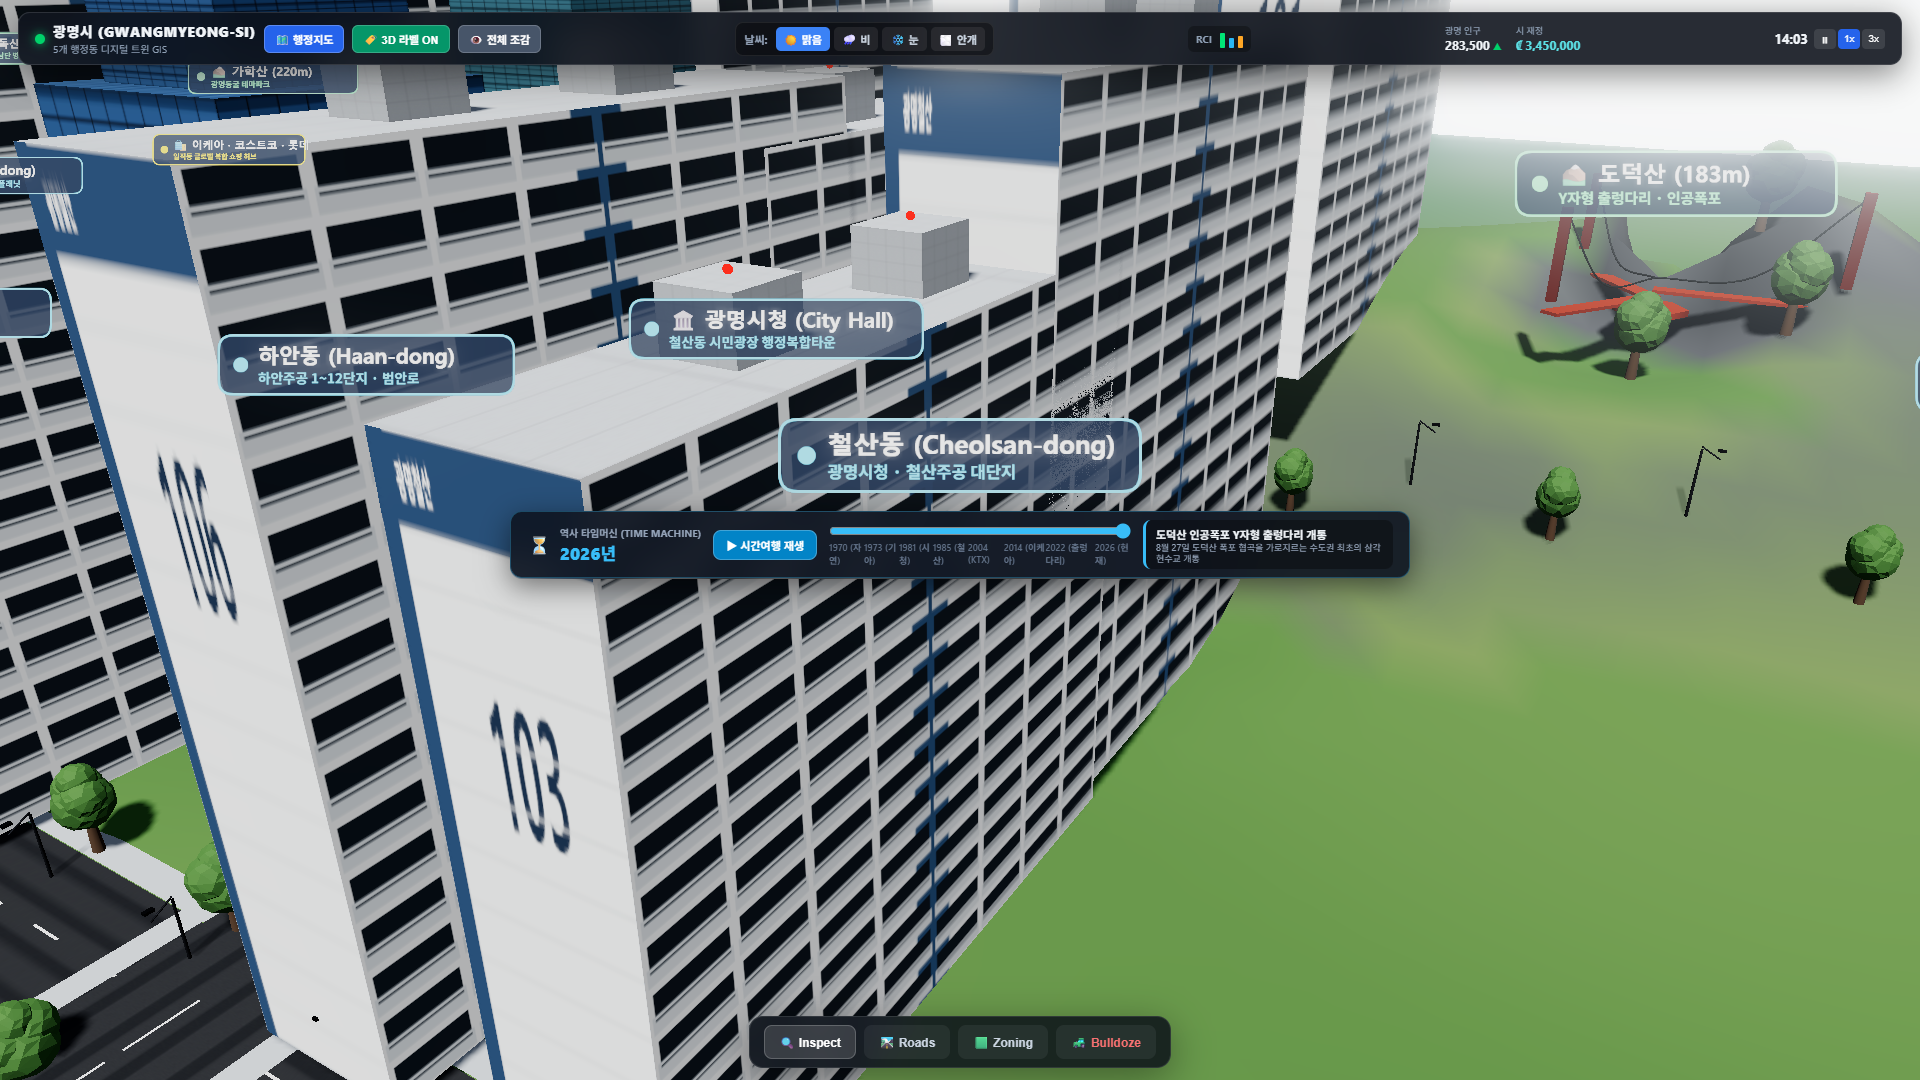
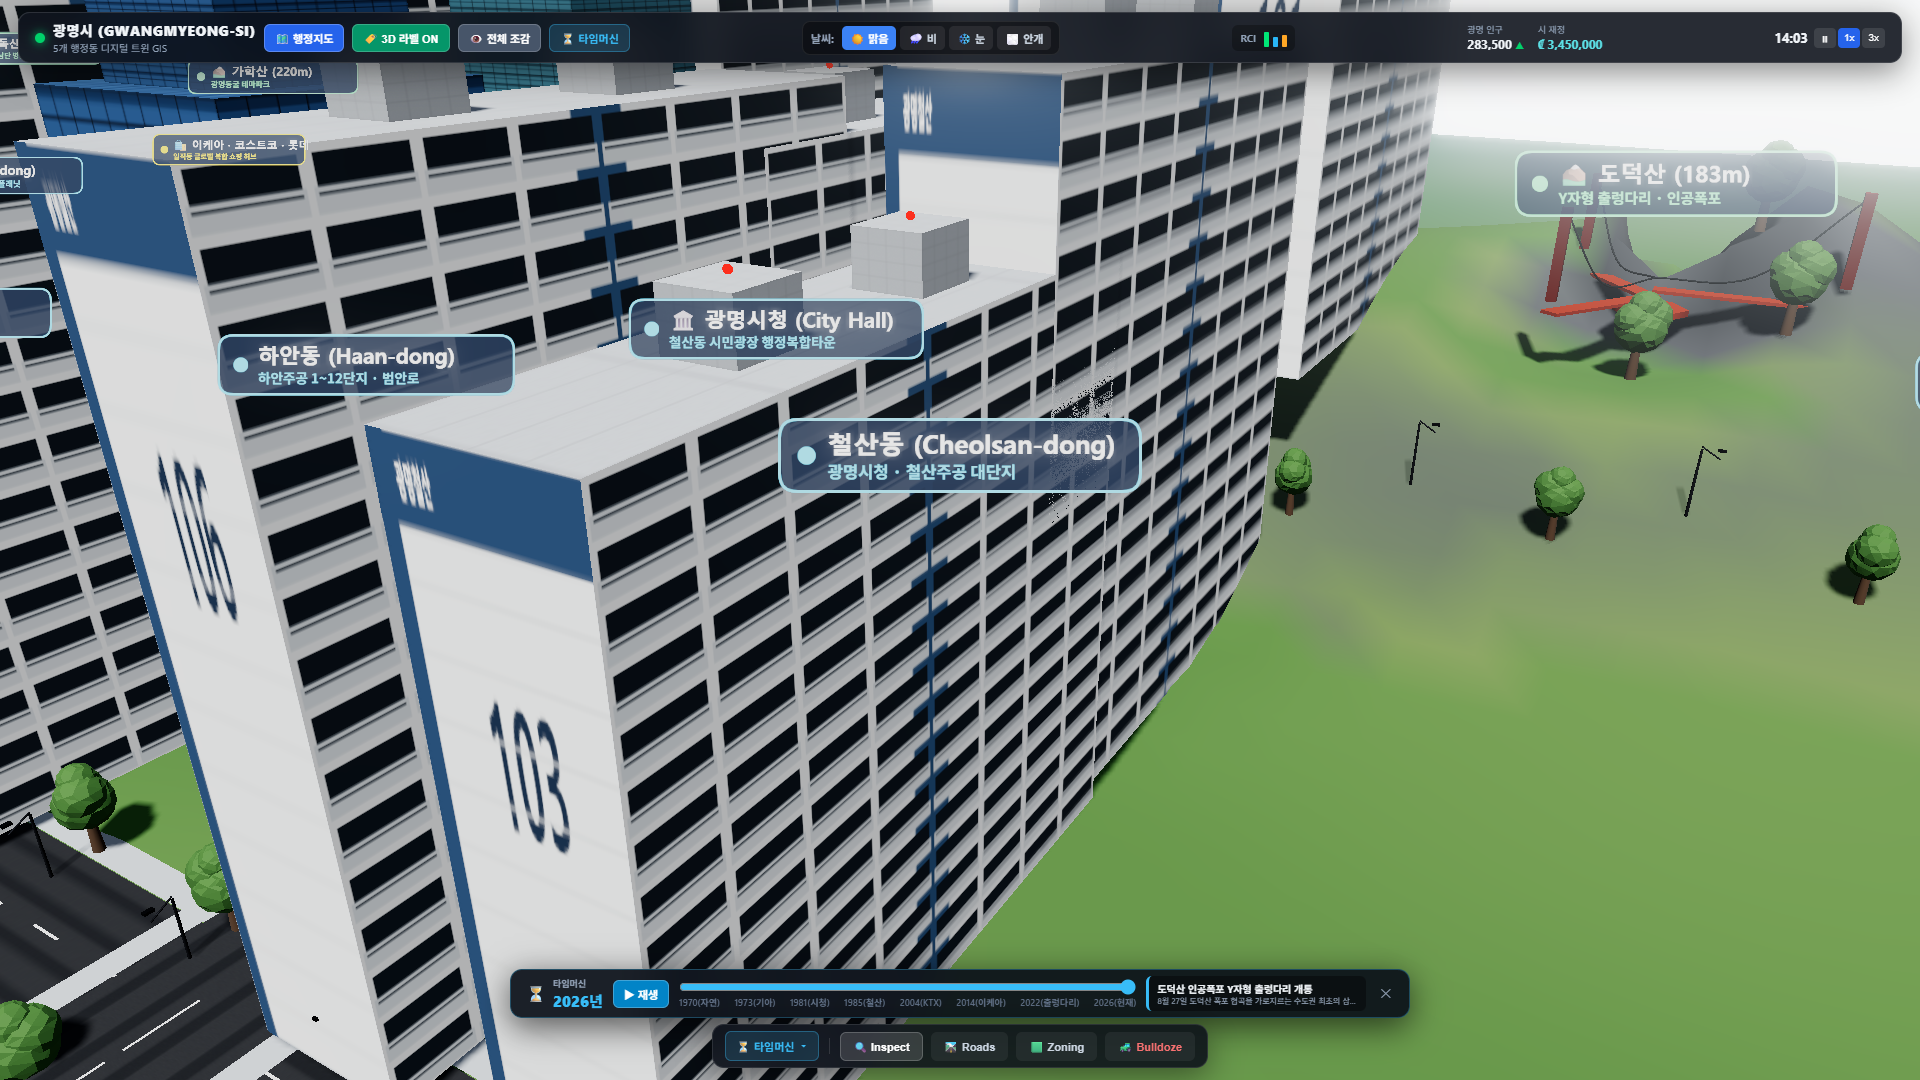
fix: relocate Time Machine control bar to bottom dock and add collapse toggle

diff --git a/src/modules/ui/index.js b/src/modules/ui/index.js
@@ -15,6 +15,7 @@ export class UIModule {
     this.unsubTM = null;
     this.isMapOpen = false;
     this.labelsVisible = true;
+    this.isTimeMachineOpen = true;
     this.currentYear = 2026;
     this.currentWeather = 'clear';
     this.isTimeLapsePlaying = false;
@@ -51,7 +52,7 @@ export class UIModule {
         padding: 12px 18px;
         box-sizing: border-box;
       ">
-        <!-- Top Status Header Bar -->
+        <!-- Top Status Header Bar (Pinned to top) -->
         <div style="
           display: flex;
           align-items: center;
@@ -61,7 +62,7 @@ export class UIModule {
           -webkit-backdrop-filter: blur(18px);
           border: 1px solid rgba(255, 255, 255, 0.12);
           border-radius: 12px;
-          padding: 8px 16px;
+          padding: 7px 16px;
           color: #f0f4f8;
           pointer-events: auto;
           box-shadow: 0 8px 32px rgba(0, 0, 0, 0.45);
@@ -126,6 +127,21 @@ export class UIModule {
             ">
               👁 전체 조감
             </button>
+            <button id="btn-top-toggle-tm" style="
+              background: rgba(56, 189, 248, 0.18);
+              border: 1px solid rgba(56, 189, 248, 0.35);
+              color: #38bdf8;
+              padding: 5px 10px;
+              border-radius: 6px;
+              font-size: 11px;
+              font-weight: 700;
+              cursor: pointer;
+              display: flex;
+              align-items: center;
+              gap: 4px;
+            ">
+              ⏳ 타임머신
+            </button>
           </div>
 
           <!-- Weather Selector Pills -->
@@ -174,86 +190,6 @@ export class UIModule {
               <button id="btn-speed-pause" style="background: rgba(255,255,255,0.1); border: none; color: #fff; padding: 3px 6px; border-radius: 4px; cursor: pointer; font-size: 10px;">⏸</button>
               <button id="btn-speed-1x" style="background: #2563eb; border: none; color: #fff; padding: 3px 6px; border-radius: 4px; cursor: pointer; font-size: 10px;">1x</button>
               <button id="btn-speed-3x" style="background: rgba(255,255,255,0.1); border: none; color: #fff; padding: 3px 6px; border-radius: 4px; cursor: pointer; font-size: 10px;">3x</button>
-            </div>
-          </div>
-        </div>
-
-        <!-- Floating Historical Time Machine Bar -->
-        <div style="
-          margin-top: 8px;
-          display: flex;
-          justify-content: center;
-          pointer-events: auto;
-        ">
-          <div style="
-            display: flex;
-            align-items: center;
-            gap: 12px;
-            background: rgba(13, 20, 32, 0.90);
-            backdrop-filter: blur(18px);
-            -webkit-backdrop-filter: blur(18px);
-            border: 1px solid rgba(56, 189, 248, 0.3);
-            border-radius: 12px;
-            padding: 8px 16px;
-            box-shadow: 0 8px 28px rgba(0, 0, 0, 0.5);
-            max-width: 900px;
-            width: 100%;
-          ">
-            <div style="display: flex; align-items: center; gap: 8px;">
-              <span style="font-size: 18px;">⏳</span>
-              <div>
-                <div style="font-size: 10px; color: #94a3b8; font-weight: 700;">역사 타임머신 (TIME MACHINE)</div>
-                <div id="tm-year-display" style="font-size: 17px; font-weight: 800; color: #38bdf8; font-variant-numeric: tabular-nums;">2026년</div>
-              </div>
-            </div>
-
-            <!-- Time-lapse Play/Pause Button -->
-            <button id="btn-tm-play" style="
-              background: #0284c7;
-              border: 1px solid rgba(255,255,255,0.25);
-              color: #ffffff;
-              padding: 6px 12px;
-              border-radius: 8px;
-              font-size: 11px;
-              font-weight: 700;
-              cursor: pointer;
-              white-space: nowrap;
-              display: flex;
-              align-items: center;
-              gap: 4px;
-            ">
-              ▶ 시간여행 재생
-            </button>
-
-            <!-- Year Slider -->
-            <div style="flex: 1; display: flex; flex-direction: column; gap: 2px;">
-              <input id="tm-year-slider" type="range" min="1970" max="2026" value="2026" step="1" style="
-                width: 100%;
-                cursor: pointer;
-                accent-color: #38bdf8;
-              "/>
-              <div style="display: flex; justify-content: space-between; font-size: 9px; color: #64748b; font-weight: 600;">
-                <span>1970 (자연)</span>
-                <span>1973 (기아)</span>
-                <span>1981 (시청)</span>
-                <span>1985 (철산)</span>
-                <span>2004 (KTX)</span>
-                <span>2014 (이케아)</span>
-                <span>2022 (출렁다리)</span>
-                <span>2026 (현재)</span>
-              </div>
-            </div>
-
-            <!-- Historical Milestone Card -->
-            <div style="
-              max-width: 250px;
-              background: rgba(0,0,0,0.35);
-              padding: 6px 10px;
-              border-radius: 8px;
-              border-left: 3px solid #38bdf8;
-            ">
-              <div id="tm-milestone-title" style="font-size: 11px; font-weight: 700; color: #f1f5f9; white-space: nowrap; overflow: hidden; text-overflow: ellipsis;">광명시 완성</div>
-              <div id="tm-milestone-desc" style="font-size: 9px; color: #94a3b8; line-height: 1.2;">도덕산 출렁다리 완공으로 14개 주요 인프라 완성</div>
             </div>
           </div>
         </div>
@@ -426,35 +362,142 @@ export class UIModule {
           </div>
         </div>
 
-        <!-- Bottom Construction & Management Dock -->
-        <div style="
+        <!-- Bottom Master Controls Dock (Centered at bottom, leaves entire screen wide open) -->
+        <div id="skylines-bottom-dock" style="
           display: flex;
-          justify-content: center;
-          gap: 10px;
+          flex-direction: column;
+          align-items: center;
+          gap: 6px;
           pointer-events: auto;
+          width: 100%;
+          max-width: 900px;
+          margin: 0 auto;
         ">
+          <!-- Sleek Bottom Historical Time Machine Bar -->
+          <div id="tm-dock-bar" style="
+            display: flex;
+            align-items: center;
+            gap: 10px;
+            background: rgba(11, 16, 25, 0.92);
+            backdrop-filter: blur(18px);
+            -webkit-backdrop-filter: blur(18px);
+            border: 1px solid rgba(56, 189, 248, 0.3);
+            border-radius: 12px;
+            padding: 6px 14px;
+            box-shadow: 0 8px 32px rgba(0, 0, 0, 0.6);
+            width: 100%;
+            box-sizing: border-box;
+            transition: all 0.25s ease;
+          ">
+            <div style="display: flex; align-items: center; gap: 6px;">
+              <span style="font-size: 16px;">⏳</span>
+              <div>
+                <div style="font-size: 9px; color: #94a3b8; font-weight: 700;">타임머신</div>
+                <div id="tm-year-display" style="font-size: 15px; font-weight: 800; color: #38bdf8; font-variant-numeric: tabular-nums;">2026년</div>
+              </div>
+            </div>
+
+            <!-- Time-lapse Play/Pause Button -->
+            <button id="btn-tm-play" style="
+              background: #0284c7;
+              border: 1px solid rgba(255,255,255,0.25);
+              color: #ffffff;
+              padding: 5px 10px;
+              border-radius: 6px;
+              font-size: 11px;
+              font-weight: 700;
+              cursor: pointer;
+              white-space: nowrap;
+              display: flex;
+              align-items: center;
+              gap: 4px;
+            ">
+              ▶ 재생
+            </button>
+
+            <!-- Year Slider -->
+            <div style="flex: 1; display: flex; flex-direction: column; gap: 1px;">
+              <input id="tm-year-slider" type="range" min="1970" max="2026" value="2026" step="1" style="
+                width: 100%;
+                cursor: pointer;
+                accent-color: #38bdf8;
+                margin: 0;
+              "/>
+              <div style="display: flex; justify-content: space-between; font-size: 9px; color: #64748b; font-weight: 600;">
+                <span>1970(자연)</span>
+                <span>1973(기아)</span>
+                <span>1981(시청)</span>
+                <span>1985(철산)</span>
+                <span>2004(KTX)</span>
+                <span>2014(이케아)</span>
+                <span>2022(출렁다리)</span>
+                <span>2026(현재)</span>
+              </div>
+            </div>
+
+            <!-- Historical Milestone Card -->
+            <div style="
+              max-width: 220px;
+              background: rgba(0,0,0,0.4);
+              padding: 5px 8px;
+              border-radius: 6px;
+              border-left: 3px solid #38bdf8;
+            ">
+              <div id="tm-milestone-title" style="font-size: 10px; font-weight: 700; color: #f1f5f9; white-space: nowrap; overflow: hidden; text-overflow: ellipsis;">광명시 완성</div>
+              <div id="tm-milestone-desc" style="font-size: 8px; color: #94a3b8; line-height: 1.2; white-space: nowrap; overflow: hidden; text-overflow: ellipsis;">도덕산 출렁다리 완공으로 인프라 완성</div>
+            </div>
+
+            <!-- Close / Minimize Button -->
+            <button id="btn-tm-close" style="
+              background: transparent;
+              border: none;
+              color: #94a3b8;
+              font-size: 13px;
+              cursor: pointer;
+              padding: 2px 4px;
+              line-height: 1;
+            " title="타임머신 바 숨기기">✕</button>
+          </div>
+
+          <!-- Bottom Construction & Management Dock -->
           <div style="
             display: flex;
             align-items: center;
             gap: 8px;
-            background: rgba(11, 16, 25, 0.85);
+            background: rgba(11, 16, 25, 0.88);
             backdrop-filter: blur(16px);
             -webkit-backdrop-filter: blur(16px);
             border: 1px solid rgba(255, 255, 255, 0.1);
-            border-radius: 14px;
-            padding: 8px 14px;
-            box-shadow: 0 10px 40px rgba(0,0,0,0.4);
+            border-radius: 12px;
+            padding: 6px 12px;
+            box-shadow: 0 8px 32px rgba(0,0,0,0.45);
           ">
-            <button class="skylines-tool-btn active" data-tool="inspect" style="background: rgba(255,255,255,0.14); border: 1px solid rgba(255,255,255,0.2); color: #fff; padding: 8px 14px; border-radius: 8px; font-size: 12px; font-weight: 600; cursor: pointer; display: flex; align-items: center; gap: 6px;">
+            <button id="btn-tm-toggle-pill" style="
+              background: rgba(56, 189, 248, 0.15);
+              border: 1px solid rgba(56, 189, 248, 0.35);
+              color: #38bdf8;
+              padding: 6px 10px;
+              border-radius: 6px;
+              font-size: 11px;
+              font-weight: 700;
+              cursor: pointer;
+              display: flex;
+              align-items: center;
+              gap: 4px;
+            ">
+              ⏳ 타임머신 <span id="tm-toggle-arrow">▾</span>
+            </button>
+            <div style="width: 1px; height: 16px; background: rgba(255,255,255,0.12); margin: 0 2px;"></div>
+            <button class="skylines-tool-btn active" data-tool="inspect" style="background: rgba(255,255,255,0.14); border: 1px solid rgba(255,255,255,0.2); color: #fff; padding: 6px 12px; border-radius: 6px; font-size: 11px; font-weight: 600; cursor: pointer; display: flex; align-items: center; gap: 5px;">
               🔍 Inspect
             </button>
-            <button class="skylines-tool-btn" data-tool="roads" style="background: rgba(255,255,255,0.06); border: 1px solid transparent; color: #cbd5e1; padding: 8px 14px; border-radius: 8px; font-size: 12px; font-weight: 600; cursor: pointer; display: flex; align-items: center; gap: 6px;">
+            <button class="skylines-tool-btn" data-tool="roads" style="background: rgba(255,255,255,0.06); border: 1px solid transparent; color: #cbd5e1; padding: 6px 12px; border-radius: 6px; font-size: 11px; font-weight: 600; cursor: pointer; display: flex; align-items: center; gap: 5px;">
               🛣 Roads
             </button>
-            <button class="skylines-tool-btn" data-tool="zoning" style="background: rgba(255,255,255,0.06); border: 1px solid transparent; color: #cbd5e1; padding: 8px 14px; border-radius: 8px; font-size: 12px; font-weight: 600; cursor: pointer; display: flex; align-items: center; gap: 6px;">
+            <button class="skylines-tool-btn" data-tool="zoning" style="background: rgba(255,255,255,0.06); border: 1px solid transparent; color: #cbd5e1; padding: 6px 12px; border-radius: 6px; font-size: 11px; font-weight: 600; cursor: pointer; display: flex; align-items: center; gap: 5px;">
               🟩 Zoning
             </button>
-            <button class="skylines-tool-btn" data-tool="bulldoze" style="background: rgba(255,255,255,0.06); border: 1px solid transparent; color: #f87171; padding: 8px 14px; border-radius: 8px; font-size: 12px; font-weight: 600; cursor: pointer; display: flex; align-items: center; gap: 6px;">
+            <button class="skylines-tool-btn" data-tool="bulldoze" style="background: rgba(255,255,255,0.06); border: 1px solid transparent; color: #f87171; padding: 6px 12px; border-radius: 6px; font-size: 11px; font-weight: 600; cursor: pointer; display: flex; align-items: center; gap: 5px;">
               🚜 Bulldoze
             </button>
           </div>
@@ -474,6 +517,30 @@ export class UIModule {
     const btnToggleLabels = document.getElementById('btn-toggle-labels');
     const btnGISOverview = document.getElementById('btn-gis-overview');
     const mapModal = document.getElementById('gwangmyeong-map-modal');
+
+    // Time Machine Dock Elements
+    const tmDockBar = document.getElementById('tm-dock-bar');
+    const btnTmTogglePill = document.getElementById('btn-tm-toggle-pill');
+    const btnTopToggleTm = document.getElementById('btn-top-toggle-tm');
+    const btnTmClose = document.getElementById('btn-tm-close');
+    const tmToggleArrow = document.getElementById('tm-toggle-arrow');
+
+    const toggleTimeMachineBar = () => {
+      this.isTimeMachineOpen = !this.isTimeMachineOpen;
+      if (tmDockBar) {
+        tmDockBar.style.display = this.isTimeMachineOpen ? 'flex' : 'none';
+      }
+      if (tmToggleArrow) {
+        tmToggleArrow.textContent = this.isTimeMachineOpen ? '▾' : '▴';
+      }
+      if (btnTopToggleTm) {
+        btnTopToggleTm.style.background = this.isTimeMachineOpen ? 'rgba(56, 189, 248, 0.25)' : 'rgba(255,255,255,0.08)';
+      }
+    };
+
+    if (btnTmTogglePill) btnTmTogglePill.onclick = toggleTimeMachineBar;
+    if (btnTopToggleTm) btnTopToggleTm.onclick = toggleTimeMachineBar;
+    if (btnTmClose) btnTmClose.onclick = toggleTimeMachineBar;
 
     // 3D GIS Labels Toggle
     if (btnToggleLabels) {
@@ -530,7 +597,7 @@ export class UIModule {
       btnPlayTM.onclick = () => {
         this.isTimeLapsePlaying = !this.isTimeLapsePlaying;
         if (this.isTimeLapsePlaying) {
-          btnPlayTM.textContent = '⏸ 시간여행 일시정지';
+          btnPlayTM.textContent = '⏸ 정지';
           btnPlayTM.style.background = '#e11d48';
 
           if (this.currentYear >= 2026) {
@@ -541,7 +608,7 @@ export class UIModule {
           this.timeLapseInterval = setInterval(() => {
             if (this.currentYear >= 2026) {
               this.isTimeLapsePlaying = false;
-              btnPlayTM.textContent = '▶ 시간여행 재생';
+              btnPlayTM.textContent = '▶ 재생';
               btnPlayTM.style.background = '#0284c7';
               clearInterval(this.timeLapseInterval);
               return;
@@ -551,7 +618,7 @@ export class UIModule {
             if (tmSlider) tmSlider.value = nextYear;
           }, 650);
         } else {
-          btnPlayTM.textContent = '▶ 시간여행 재생';
+          btnPlayTM.textContent = '▶ 재생';
           btnPlayTM.style.background = '#0284c7';
           if (this.timeLapseInterval) clearInterval(this.timeLapseInterval);
         }
